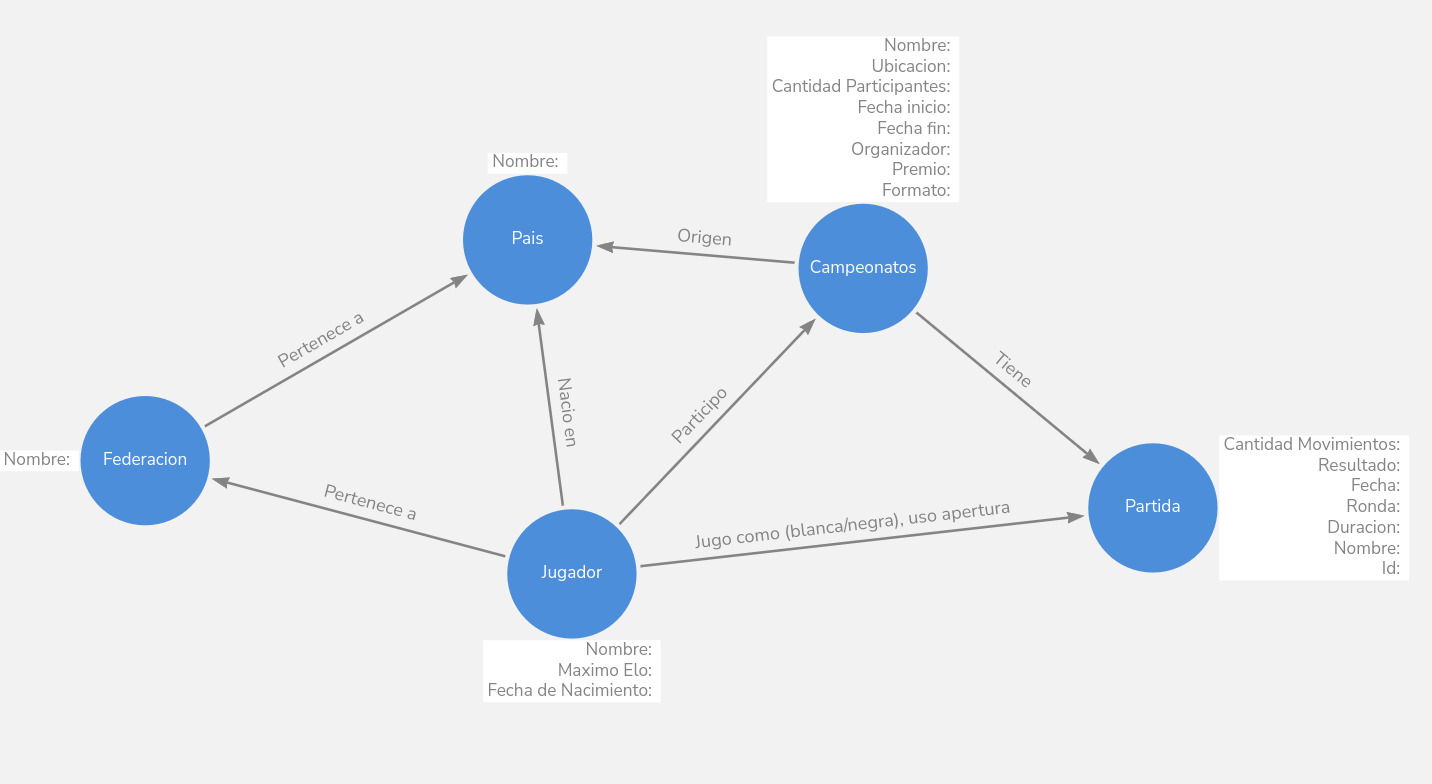
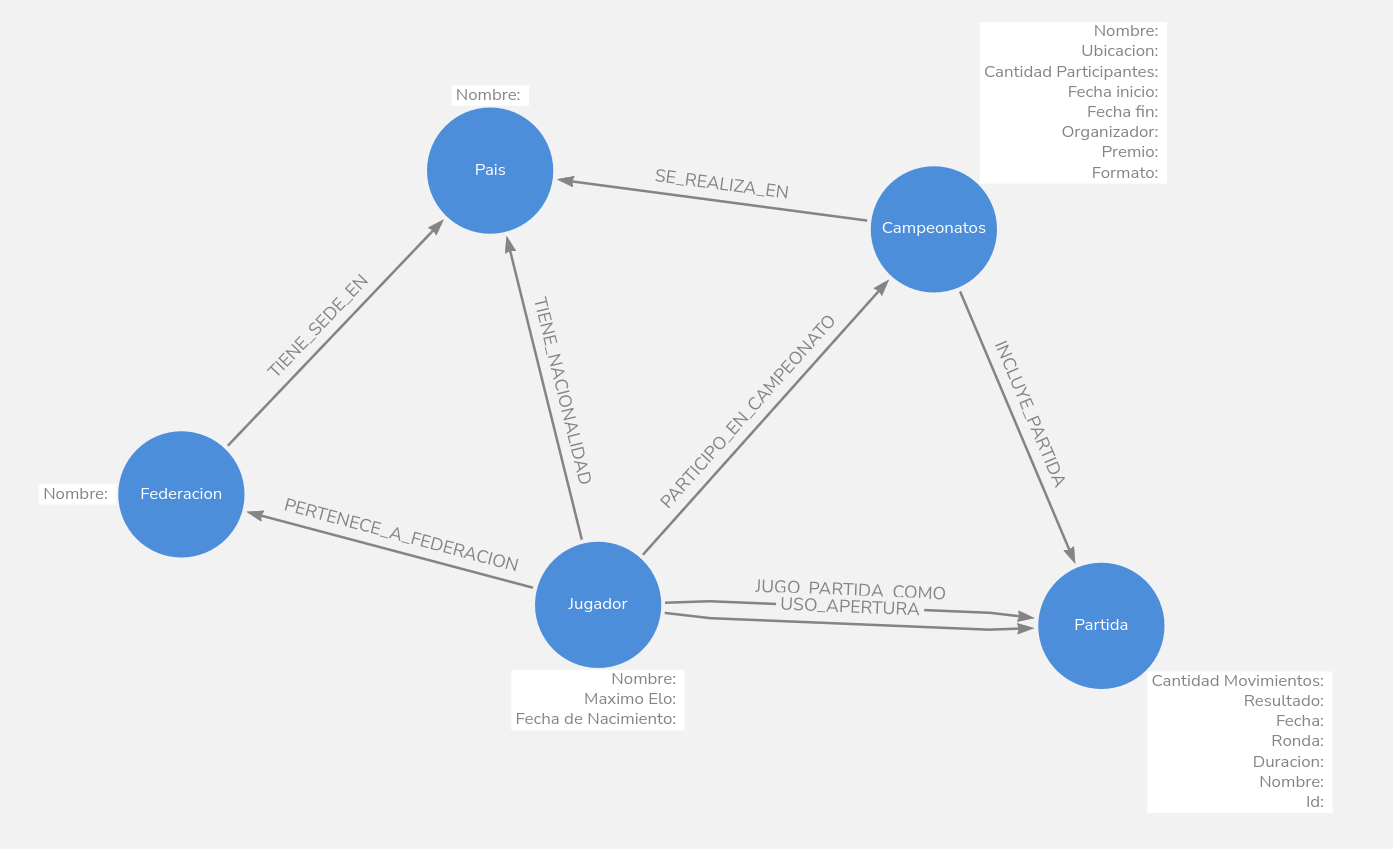
Modelo Base de datos y primeras consultas

diff --git a/README.md b/README.md
@@ -4,48 +4,64 @@
 ## Modelo
 ![alt text](image.png)
 
-##
+## 
+
 para ver todo el grafo:
 
 ```
 MATCH (n) RETURN n;  
 ```
 
+## Modelo
+
 ## Consultas posibles 
 ### Básicas
 
 1. **¿De qué país es un jugador?**  
    ```
-   
+   MATCH (j:Jugador)-[:TIENE_NACIONALIDAD]->(p:Pais)
+   WHERE j.nombre = "Magnus Carlsen"
+   RETURN j.nombre AS jugador, p.nombre AS pais;
    ```
 
 2. **¿A qué federación pertenece un jugador?**  
    ```
-   
+   MATCH (j:Jugador)-[:PERTENECE_A_FEDERACION]->(f:Federacion)
+   WHERE j.nombre = "Magnus Carlsen"
+   RETURN j.nombre AS jugador, f.nombre AS federacion;
+
    ```
 
 3. **¿Qué campeonatos jugó un jugador?**
    ```
-   
+   MATCH (j:Jugador)-[:PARTICIPO_EN_CAMPEONATO]->(c:Campeonato)
+   WHERE j.nombre = "Magnus Carlsen"
+   RETURN j.nombre AS jugador, c.nombre AS campeonato;
+
    ```
 
-4. **¿Qué partidas jugó un jugador, con qué color y qué apertura usó?**
+4. **¿Qué partidas pertenecen a un campeonato determinado?**
    ```
-  
-   ```
-
-5. **¿Qué partidas pertenecen a un campeonato determinado?**
-   ```
-   
+   MATCH (c:Campeonato)-[:INCLUYE_PARTIDA]->(p:Partida)
+   WHERE c.nombre = "Tata Steel Chess 2024"
+   RETURN c.nombre AS campeonato, p.nombre AS partida, p.ronda, p.fecha;
    ```
 
-6. **¿Qué jugadores nacieron en un país específico?**
+5. **¿Qué jugadores nacieron en un país específico?**
    ```
-   
+   MATCH (j:Jugador)-[:TIENE_NACIONALIDAD]->(p:Pais)
+   WHERE p.nombre = "Francia"
+   RETURN j.nombre AS jugador, j.fechaNacimiento AS fecha_nacimiento, p.nombre AS pais;
    ```
 
 
 ## Consultas avanzadas 
+
+6. **¿Qué partidas jugó un jugador, con qué color y qué apertura usó?**
+   ```
+   
+   ```
+
 7. **¿Cantidad total de partidas con su tasa de victoria?**
    ```
    
